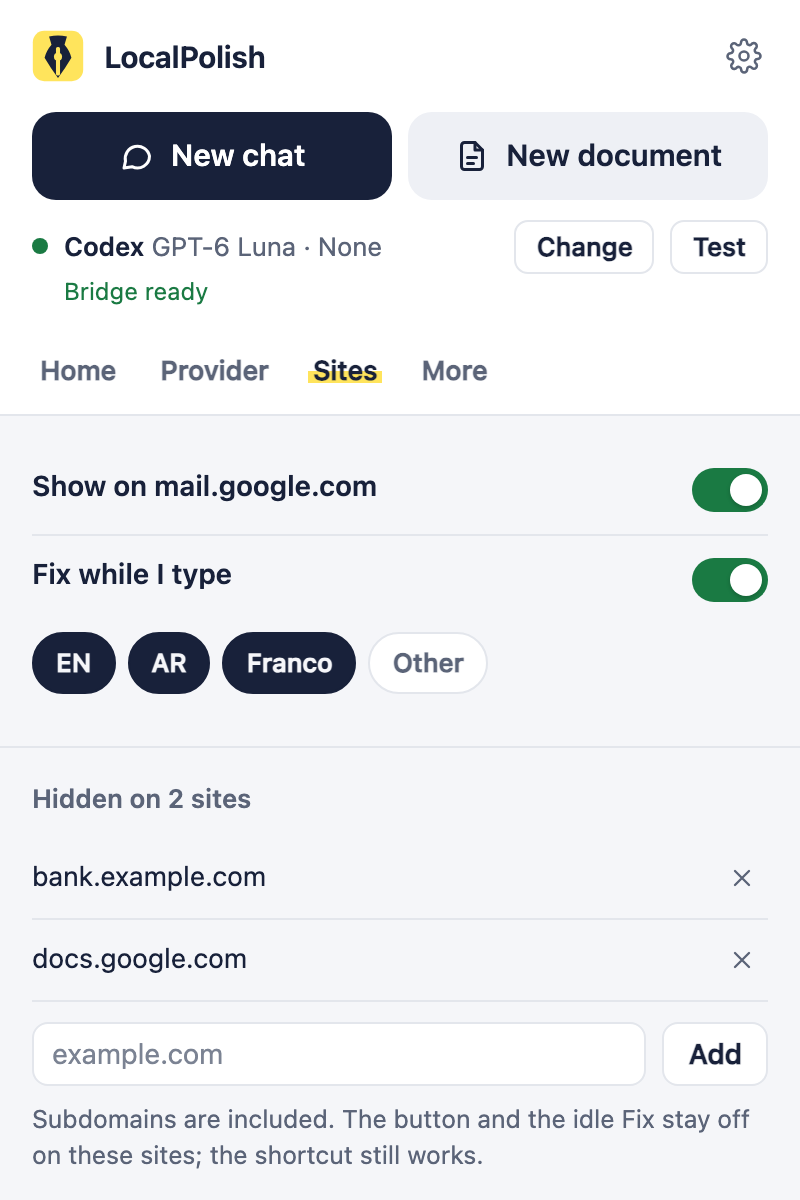
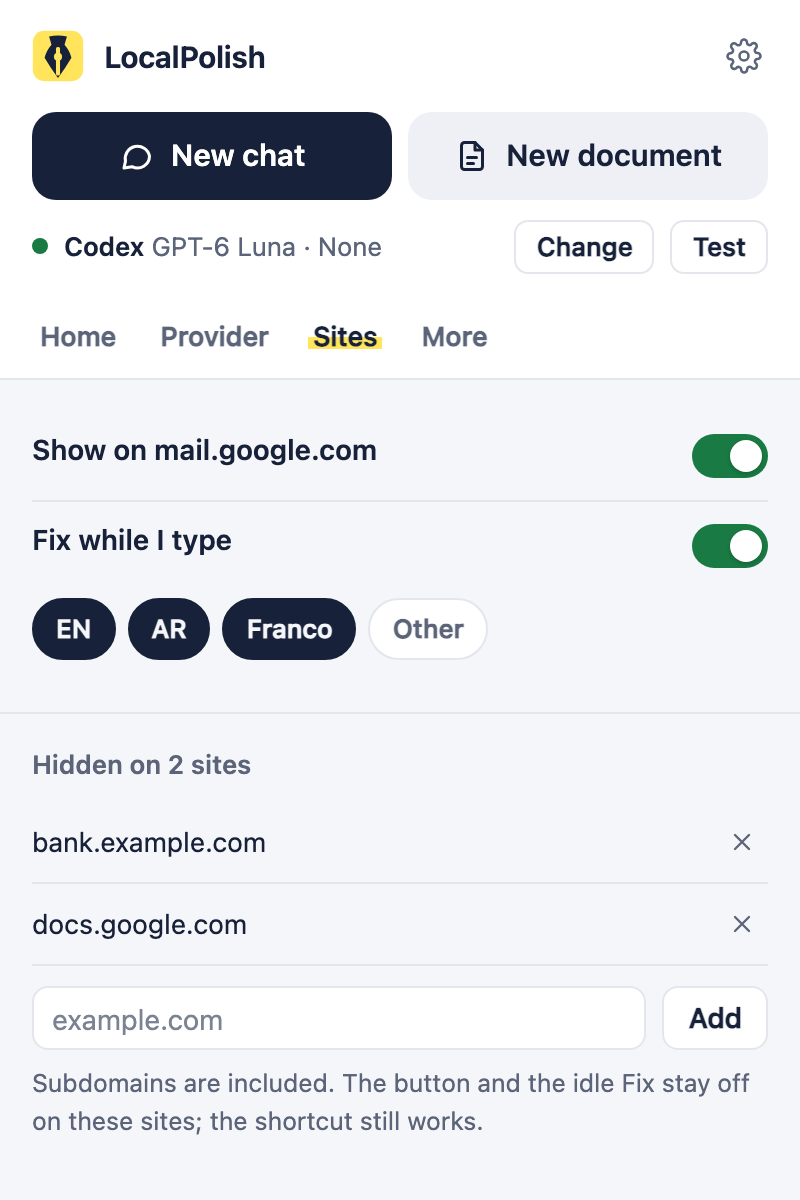
fix: drop the Bridge ready line, the dot carries the status

diff --git a/src/popup/Hero.tsx b/src/popup/Hero.tsx
@@ -52,7 +52,7 @@ export function Hero({ settings, bridge, test, chat, full, onOpenProvider }: Her
         </p>
       )}
       <div class="using">
-        <span class={`dot ${link.tone}`} aria-hidden="true" />
+        <span class={`dot ${link.tone}`} role="img" aria-label={link.label} title={link.label} />
         <span class="grow" title={`${summary.title} ${summary.detail}`}>
           <b>{summary.title}</b> <span class="muted">{summary.detail}</span>
         </span>
@@ -74,7 +74,7 @@ export function Hero({ settings, bridge, test, chat, full, onOpenProvider }: Her
           {bridgeError ? (
             <BridgeErrorNote message={bridgeError} />
           ) : (
-            <span class={`link-label ${link.tone}`}>{link.label}</span>
+            link.tone !== 'ok' && <span class={`link-label ${link.tone}`}>{link.label}</span>
           )}
           <TestStatus test={test} />
         </div>

diff --git a/tests/e2e/action-popup.spec.ts b/tests/e2e/action-popup.spec.ts
@@ -256,7 +256,7 @@ test('Home shows the default provider and Change opens Provider', async ({ page 
   await openPopup(page);
   await expect(page.getByText('Codex', { exact: true })).toBeVisible();
   await expect(page.getByText('GPT-6 Luna · None')).toBeVisible();
-  await expect(page.getByText('Bridge ready')).toBeVisible();
+  await expect(page.getByRole('img', { name: 'Bridge ready' })).toBeVisible();
 
   await page.getByRole('button', { name: 'Change' }).click();
   await expect(page.getByRole('tab', { name: 'Provider' })).toHaveAttribute(

diff --git a/README.md b/README.md
@@ -281,7 +281,7 @@ To hide LocalPolish on the site you are on, turn off the **Show on** switch for 
 
 Click the pen nib icon in the toolbar (pin it from the puzzle-piece menu). Rewrite provider and common settings are here, and changes save as you make them. A short **Saved** note shows in the header. The gear opens the full options page, which also has the selection-chat switch.
 
-- At the top, **New chat** and **New document** open the side panel. Under them, one line shows the provider, model and effort you use, with a colored dot and a status (Bridge ready, No bridge, Key saved, No API key or Local server). Hold the pointer on the line to see all of it. **Change** jumps to the Provider tab. **Test** sends a short sample and shows the answer and how long it took.
+- At the top, **New chat** and **New document** open the side panel. Under them, one line shows the provider, model and effort you use, with a colored dot for the status (Bridge ready, No bridge, Key saved, No API key or Local server). Hold the pointer on the dot or the line to read it. A line of text appears only when something needs attention. **Change** jumps to the Provider tab. **Test** sends a short sample and shows the answer and how long it took.
 - **Home** lists your three newest documents; click one to open it in the side panel. Below that, choose what the button and shortcut do: Fix, Rephrase or Shorter.
 - **Provider** has the six providers in two groups, _Your subscription, through the bridge_ and _API key_. CLI providers have Model and Thinking effort pickers (Antigravity shows effort only for models that have one), and the bridge status with each CLI's version and **Check again**. The API providers have the base URL, model, API key (with Show and Hide) and temperature. **Test connection** is at the bottom. The tab gets a red dot when a CLI provider is picked and the bridge is missing.
 - **Sites** starts with **Show on** _this site_ and **Fix while I type** with its **Languages**. Below them is the list of hidden sites, with remove buttons and an Add field. The current host is tagged _This tab_.
